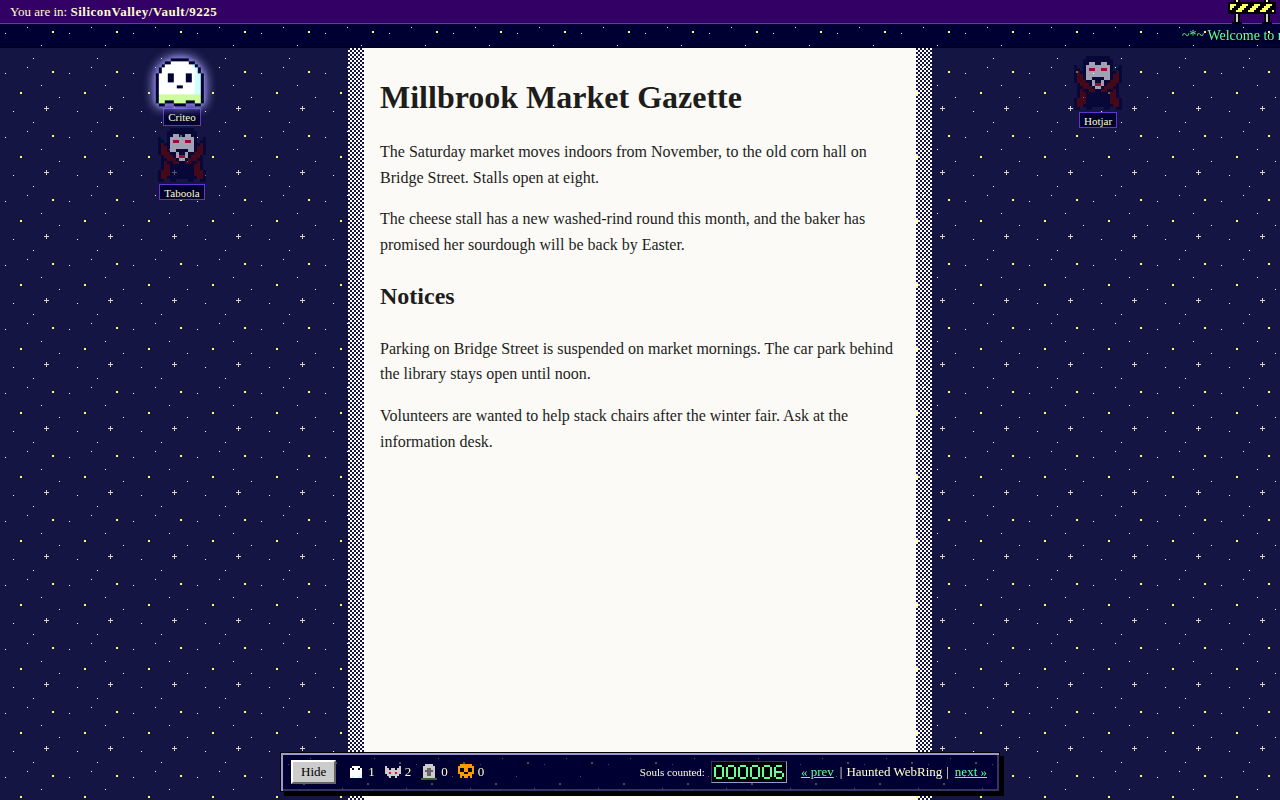
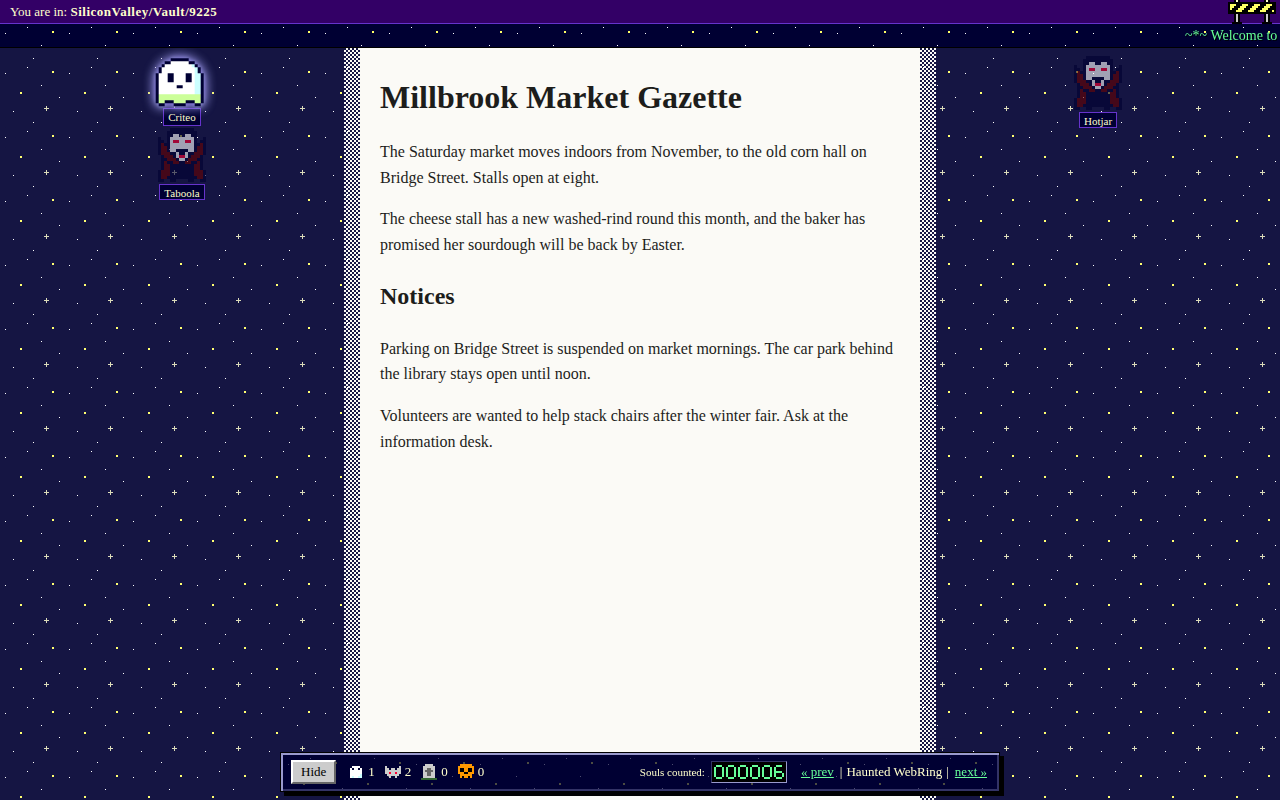
leave a gap beside the dither edge

Changed region(s): [[0.9375, 0.0312, 1.0, 0.0625]]

diff --git a/test/costume.test.ts b/test/costume.test.ts
@@ -4,7 +4,8 @@ import { join } from "node:path";
 import { Window } from "happy-dom";
 import { HOST_TAG } from "../src/content/overlay";
 import * as T from "../src/content/costume/tokens";
-import { computeContentColumn, gutterWidths, STAR_TILE } from "../src/content/costume/starfield";
+import { buildStarfield, computeContentColumn, gutterWidths, layoutStarfield, STAR_TILE } from "../src/content/costume/starfield";
+import { planSlots } from "../src/content/costume/ghosts";
 import { MARQUEE_LINES, marqueeSeconds, neighborhoodFor, topOffset } from "../src/content/costume/bands";
 import { sampleBottomLift, setCounts, setOdometer } from "../src/content/costume/hud";
 import { costumeCss } from "../src/content/costume/styles";
@@ -189,6 +190,32 @@ describe("starfield", () => {
     expect(gutterWidths({ left: 70, right: 1270 }, 1280)).toEqual({ left: 70, right: 10 });
     expect(gutterWidths({ left: 40, right: 1240 }, 1280)).toBeNull();
     expect(gutterWidths({ left: 0, right: 375 }, 375)).toBeNull();
+  });
+
+  test("the dither edge ends a few px short of the text column on both sides, lanes stay in the gutters", () => {
+    const win = new Window({ url: "https://haunt.example/" });
+    windows.push(win);
+    const doc = win.document as unknown as Document;
+    const field = buildStarfield(doc);
+    const col = { left: 300, right: 980 };
+    const gutters = gutterWidths(col, 1280)!;
+    layoutStarfield(field, gutters);
+    const left = field.querySelector<HTMLElement>(".gutter.left")!;
+    const right = field.querySelector<HTMLElement>(".gutter.right")!;
+    const leftEdgeEnd = parseFloat(left.style.width); // the left gutter is pinned to x=0, its edge is its inner 16px
+    const rightEdgeStart = 1280 - parseFloat(right.style.width);
+    expect(col.left - leftEdgeEnd).toBeGreaterThanOrEqual(3);
+    expect(col.left - leftEdgeEnd).toBeLessThanOrEqual(8);
+    expect(rightEdgeStart - col.right).toBeGreaterThanOrEqual(3);
+    expect(rightEdgeStart - col.right).toBeLessThanOrEqual(8);
+    // Lanes are planned from the gutters, so they never reach the column either.
+    for (const s of planSlots(gutters, 1280, 48, 700, [])) {
+      expect(s.side === "left" ? s.x + s.w <= col.left : s.x >= col.right).toBe(true);
+    }
+    // A gutter whose edge would no longer fit its 16px stays hidden.
+    layoutStarfield(field, { left: 18, right: 300 });
+    expect(left.hidden).toBe(true);
+    expect(right.hidden).toBe(false);
   });
 
   test("the gutter CSS: tile at .92 opacity, a 16px checker-dithered edge, no gradients", () => {

diff --git a/src/content/costume/starfield.ts b/src/content/costume/starfield.ts
@@ -116,11 +116,14 @@ export function buildStarfield(doc: Document): HTMLElement {
   return field;
 }
 
-/** Size the gutters; a side narrower than its 16px dither edge stays hidden. */
+/** Clear px between the dither edge and the text column (the lanes are still planned from the full gutter). */
+const EDGE_GAP = 4;
+
+/** Size the gutters, EDGE_GAP short of the column; a side too narrow for its 16px dither edge stays hidden. */
 export function layoutStarfield(field: HTMLElement, widths: Column | null): void {
   for (const side of ["left", "right"] as const) {
     const g = field.querySelector(`.gutter.${side}`) as HTMLElement;
-    const w = widths?.[side] ?? 0;
+    const w = Math.max(0, (widths?.[side] ?? 0) - EDGE_GAP);
     g.hidden = w < 16;
     g.style.width = `${w}px`;
   }
